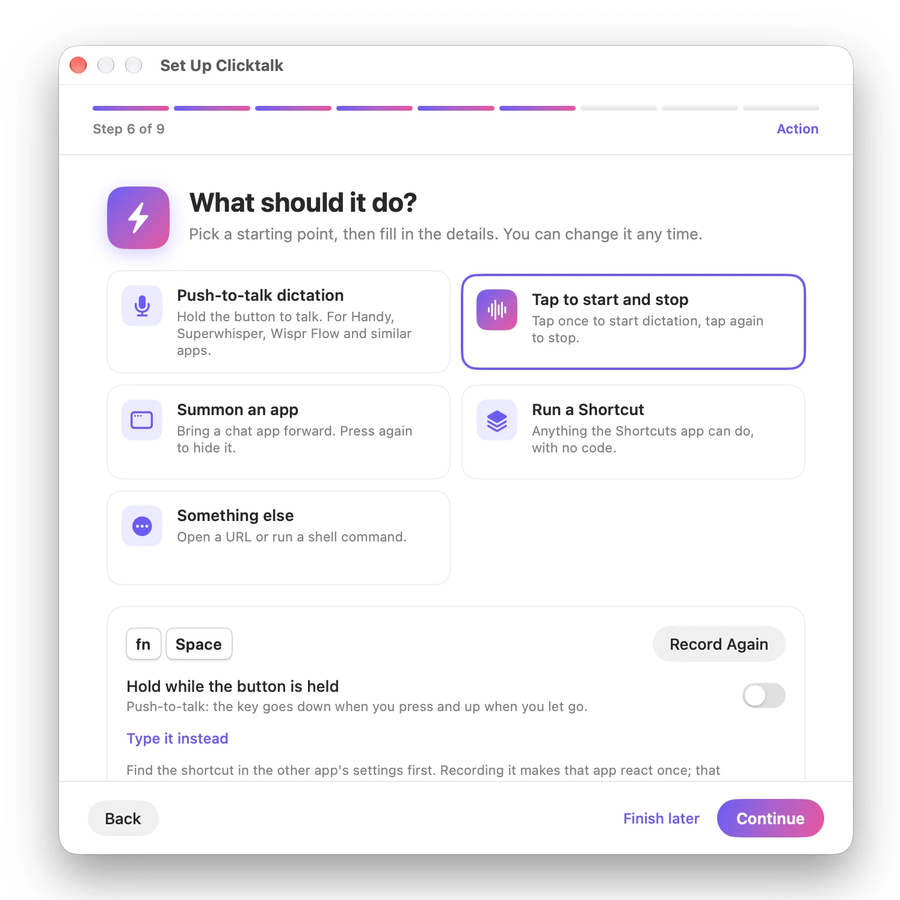
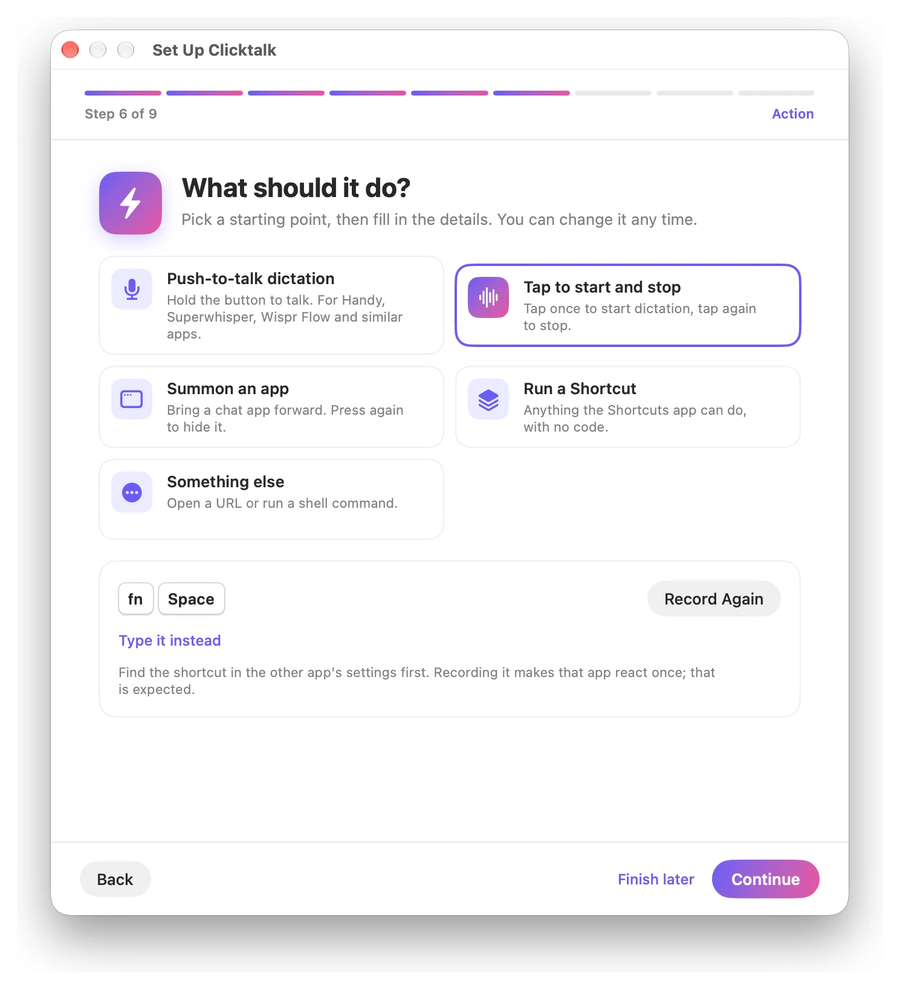
Add the device illustration, overview and new setup screenshots
The README opens with the Clicktalk window and a section on the button,
with an original illustration of a Bluetooth camera-shutter remote drawn
in the app's style. It explains that BT1818 in the screenshots is the
name the remote's Bluetooth chip reports, and that macOS treats it as an
HID device sending one key. Steps 6 to 9 use screenshots of the current
build, trimmed to the window with even margins. Steps 1, 2, 3, 4 and 5
follow once fresh screenshots are in.

diff --git a/README.md b/README.md
@@ -3,11 +3,25 @@
 Turn a cheap Bluetooth button into a key for your Mac. Hold it to talk to your dictation app,
 tap it to summon a chat app, or run any Shortcut.
 
-<p align="center"><img src="docs/images/step-9-done.png" width="420" alt="Clicktalk setup guide, final step"></p>
+<p align="center"><img src="docs/images/overview.png" width="720" alt="The Clicktalk window: status, the path a press takes, and your button"></p>
 
 Clicktalk is a small menu bar app. It takes hold of your Bluetooth clicker, so the key the clicker
 sends (often Volume Up) never reaches other apps. Then it runs the action you chose. A setup
 guide walks you through every macOS permission and shows when each one is on.
+
+## The button
+
+<p align="center"><img src="docs/images/clicker.png" width="260" alt="Illustration of a Bluetooth camera-shutter remote"></p>
+
+Clicktalk was built and tested with a cheap Bluetooth camera-shutter remote like the one above,
+the kind sold for taking selfies with a phone. Presentation clickers and other small Bluetooth
+remotes work the same way.
+
+In the screenshots below the remote appears as **BT1818**. That is the name its Bluetooth chip
+reports when it pairs, so it is what you see in Bluetooth settings and in Clicktalk's list of
+devices. macOS treats the remote as an HID device: a tiny keyboard that sends one key, usually
+Volume Up. Your remote may report a different name, such as AB Shutter3. Clicktalk does not care
+about the name or the key; it learns whichever your remote sends.
 
 ## What Clicktalk does, and what it needs
 
@@ -74,23 +88,22 @@ The guide has nine steps. Each one checks itself, and **Continue** lights up as 
 reports the step done. You can close the guide and pick up later from the menu bar dot under
 **Setup Guide**.
 
-*The screenshots come from an earlier build. The current one always shows "of 9" in the step
-counter, and lists connected devices first.*
-
 ### 1. Welcome
 
 The guide lists what you need. If Clicktalk is not in Applications, it offers to copy itself there
 first. macOS ties permissions to the app's location, so do this before granting anything.
+
 
 ### 2. Allow Bluetooth
 
 Click **Allow Bluetooth**, then **Allow** in the macOS prompt. Clicktalk only uses this to see
 whether your button is connected or asleep.
 
+
 ### 3. Choose your button
 
 Press your button once. Most clickers connect only when pressed, so it moves to **Connected now**.
-Select it.
+Select it. Here the remote is **BT1818**; the names of other paired devices are blurred.
 
 <p align="center"><img src="docs/images/step-3-button.png" width="480" alt="Choose your button"></p>
 
@@ -110,6 +123,7 @@ When the step is done, a green note says that Clicktalk now holds your button.
 
 Press the button once. Clicktalk learns which key the button sends, for example Volume Up, and shows
 its name. Every clicker is different, so this replaces any device list.
+
 
 ### 6. Choose what it does
 
@@ -140,6 +154,8 @@ Settings** in the prompt, and turn Clicktalk on. For other actions the step says
 Press the button. For push-to-talk, hold it, speak, then let go. The step turns green with
 **It works**, and shows what the press did. If nothing happens, wake the button with a press, and
 check that the recorded shortcut matches the target app's global shortcut.
+
+<p align="center"><img src="docs/images/step-8-test.png" width="480" alt="Try it: waiting for a press"></p>
 
 ### 9. Done
 
